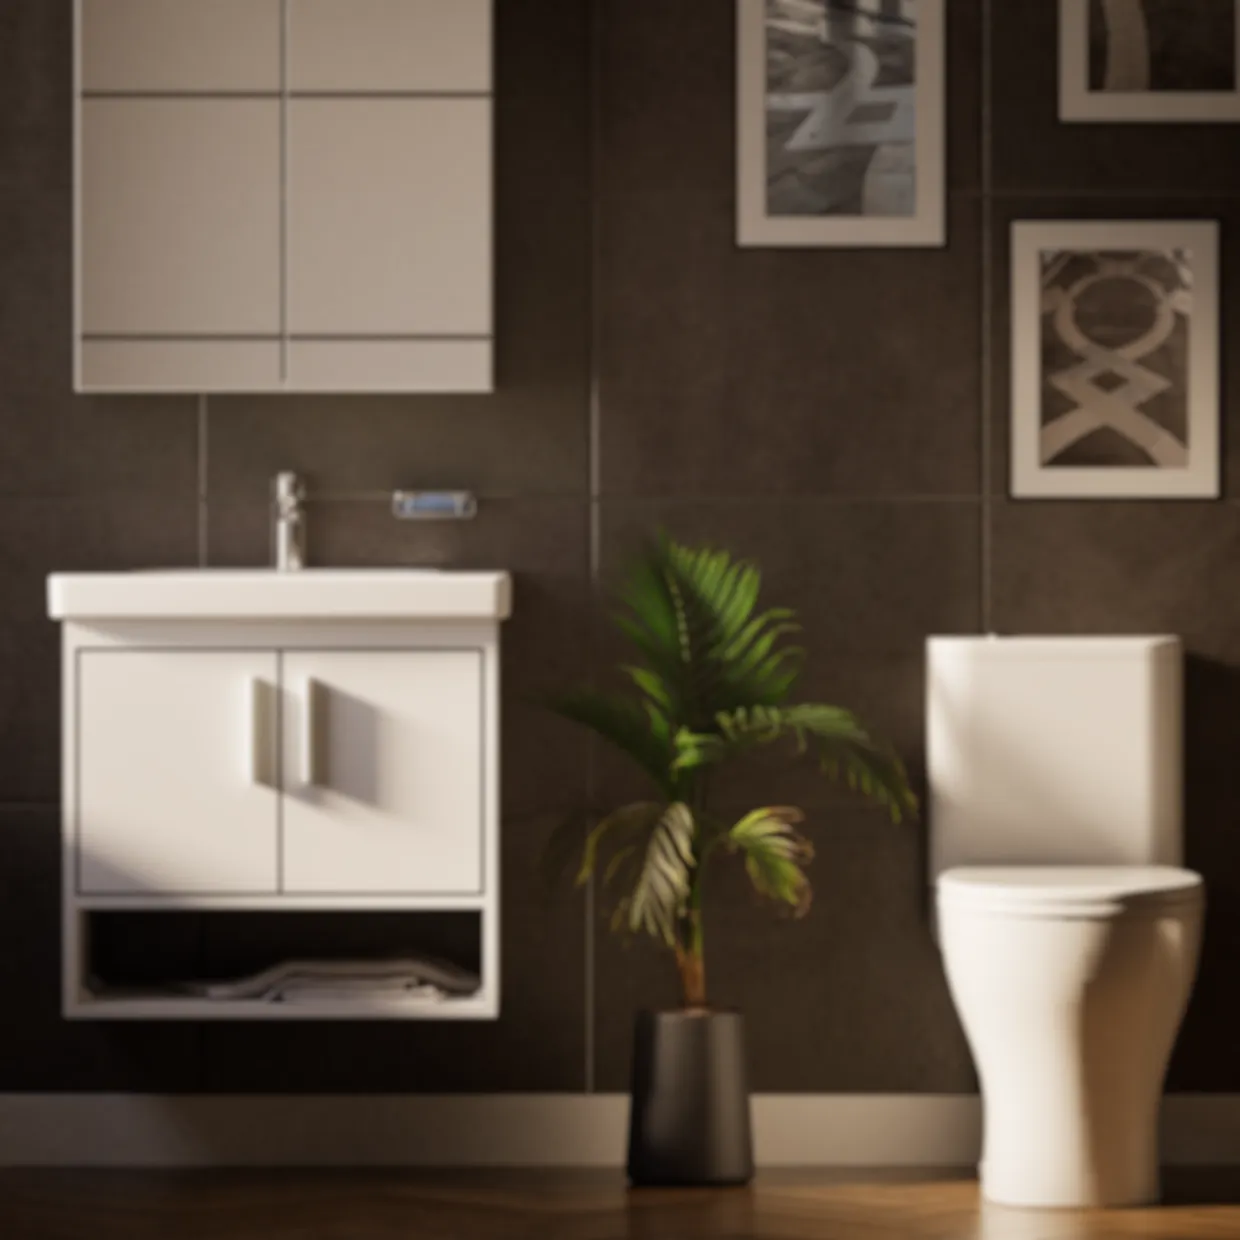
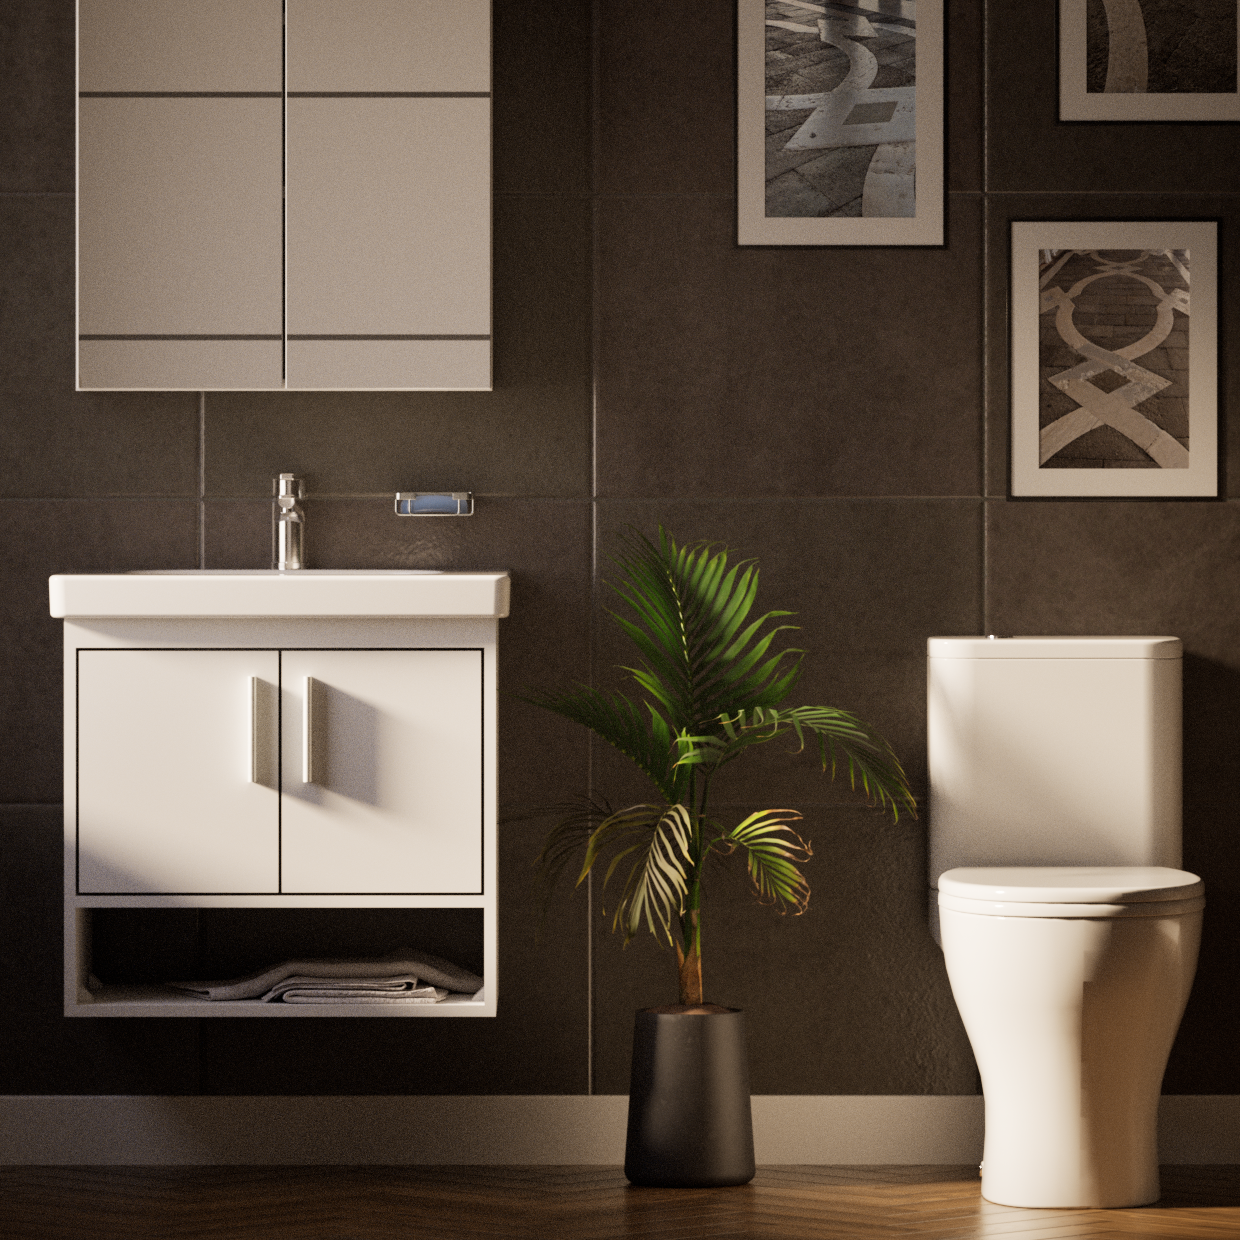
...

diff --git a/website/index.html b/website/index.html
@@ -16,11 +16,14 @@
       <a href="products.html">منتجاتنا</a>
       <a href="configurator.html">وحدات الحوض</a>
     </div>
-    <div class="nav-left">
+  <div class="nav-left">
       <a href="index.html" class="logo-link">
-        <img src="images/logo-white.png" alt="WODI" class="nav-logo">
+          <img id="navLogo"
+              src="images/logo-nobg.png"
+              alt="WODI"
+              class="nav-logo">
       </a>
-    </div>
+  </div>
   </nav>
 
   <header class="hero" id="hero">
@@ -56,7 +59,7 @@
       <div class="product-card">
         <img src="images/4a_fp_sc09.webp" alt="Toilets">
         <h3>وحدات الحوض</h3>
-        <p>حوّل اختيار وحدة الحمام إلى تجربة بسيطة وممتعة، مع أداة تصميم تفاعلية تمنحك رؤية واضحة للتصميم والتكلفة في الوقت الفعلي.</p>
+        <p>حوّل اختيار وحدة الحمام إلى تجربة بسيطة وممتعة، مع أداة تصميم تفاعلية تتيح لك استكشاف تصميمات متنوعة، ومتابعة تأثير كل اختيار على السعر بشكل فوري وشفاف.</p>
         <a href="#" class="btn-more">المزيد →</a>
       </div>
 
@@ -135,7 +138,7 @@
             <li><strong>مقاومة الرطوبة:</strong> في حال ظهور أي تأثر غير طبيعي للوحدة.</li>
         </ul>
 
-        <p style="background: #333028; padding: 10px; border-right: 3px solid #9caf88; margin-top: 15px; line-height: 1.6;">
+        <p style="background: #ffffff; padding: 10px; border-right: 3px solid #9caf88; margin-top: 15px; line-height: 1.6;">
             <strong>ملاحظة هامة:</strong> الضمان يغطي عيوب الصناعة فقط، ولا يشمل الأضرار الناتجة عن سوء الاستخدام (مثل الخبطات، تعريض الوحدة لدرجات حرارة عالية، أو لتدفق مياه مباشر بشكل مستمر).
         </p>
   </details>
@@ -147,7 +150,7 @@
     <!-- العمود الأول: اللوجو والنبذة -->
     <!-- العمود الأول: مميزات WODI -->
     <div class="footer-col">
-      <img src="images/logo-white.png" alt="WODI Furniture Logo" class="footer-logo">
+      <img src="images/logo-nobg.png" alt="WODI Furniture Logo" class="footer-logo">
       <ul class="wodi-features">
         <li><span>✓</span> أسعار واضحة من أول لحظة.</li>
         <li><span>✓</span> بنسمع، بنقترح، وبنفضل معاك.</li>
@@ -198,10 +201,10 @@ const navLogo = document.getElementById("navLogo");
 window.addEventListener("scroll", () => {
     if (window.scrollY > 20) {
         navbar.classList.add("scrolled");
-        navLogo.src = "images/logo-color.png";
+        navLogo.src = "images/logo-white.png";
     } else {
         navbar.classList.remove("scrolled");
-        navLogo.src = "images/logo-white.png";
+        navLogo.src = "images/logo-nobg.png";
     }
 });
 </script>

diff --git a/website/css/style.css b/website/css/style.css
@@ -19,7 +19,7 @@ body {
   justify-content: space-between;
   direction: rtl;
   align-items: center;
-  padding: 12px 40px;
+  padding: 10px 40px;
   background: transparent;
   z-index: 100;
   box-sizing: border-box;
@@ -33,13 +33,19 @@ body {
   box-shadow: 0 2px 16px rgba(0,0,0,0.35);
 }
 .nav-left { display: flex; align-items: center; gap: 20px; }
-.nav-logo { width: 42px; }
+.nav-logo {
+    width: 52px;
+    height: 52px;
+    object-fit: contain;
+    transform-origin: center;
+    transition: opacity 0.3s ease;
+}
 .logo-link { display: flex; align-items: center; }
 .nav-right { display: flex; gap: 28px; align-items: center; }
 .nav-right a {
   color: #ffffff;
   text-decoration: none;
-  font-size: 14px;
+  font-size: 15px;
   transition: opacity 0.2s;
   position: relative;
 }
@@ -79,7 +85,7 @@ body {
   padding: 100px 60px 60px;
   text-align: right;
   background:
-    linear-gradient(rgba(0,0,0,0.45), rgba(0,0,0,0.45)),
+    linear-gradient(rgba(0,0,0,0.1), rgba(0,0,0,0.1)),
     url('../images/cover-v1.webp') center/cover no-repeat;
   background-attachment: fixed;
   animation: heroFadeIn 1s ease-out forwards;
@@ -98,7 +104,7 @@ body {
   text-shadow: none;
 }
 .hero p {
-  font-size: clamp(14px, 2vw, 17px);
+  font-size: clamp(18px, 2vw, 17px);
   color: #fff;
   margin-bottom: 28px;
   max-width: 480px;
@@ -375,11 +381,9 @@ details[open] summary::after {
 }
 
 /* ── Footer ── */
-/* --- WODI Footer Styles --- */
 .wodi-footer {
-  background-color: #FFFFFF;
-  background: linear-gradient(to bottom, #3b372e, #FFFFFF);
-  color: #333028;
+  background-color: #333028;
+  color: #ffffff;
   padding: 60px 20px 30px;
   border-top: 1px solid rgba(255, 255, 255, 0.12);
   font-family: 'Cairo', sans-serif;
@@ -395,7 +399,7 @@ details[open] summary::after {
   margin-bottom: 12px; /* مسافة أريح بين السطور */
   display: flex;
   align-items: center;
-  color: #333028;
+  color: #ffffff;
   opacity: 0.85; /* نص واضح لكن غير حاد */
   font-size: 0.95em;
 }
@@ -409,7 +413,7 @@ details[open] summary::after {
 .footer-container {
   display: grid;
   grid-template-columns: repeat(auto-fit, minmax(280px, 1fr));
-  gap: 50px;
+  gap: 25px;
   max-width: 1200px;
   margin: 0 auto;
 }
@@ -437,7 +441,7 @@ details[open] summary::after {
 }
 
 .footer-links a {
-  color: #333028;
+  color: #ffffff;
   text-decoration: none;
   opacity: 0.7;
   transition: 0.3s;
